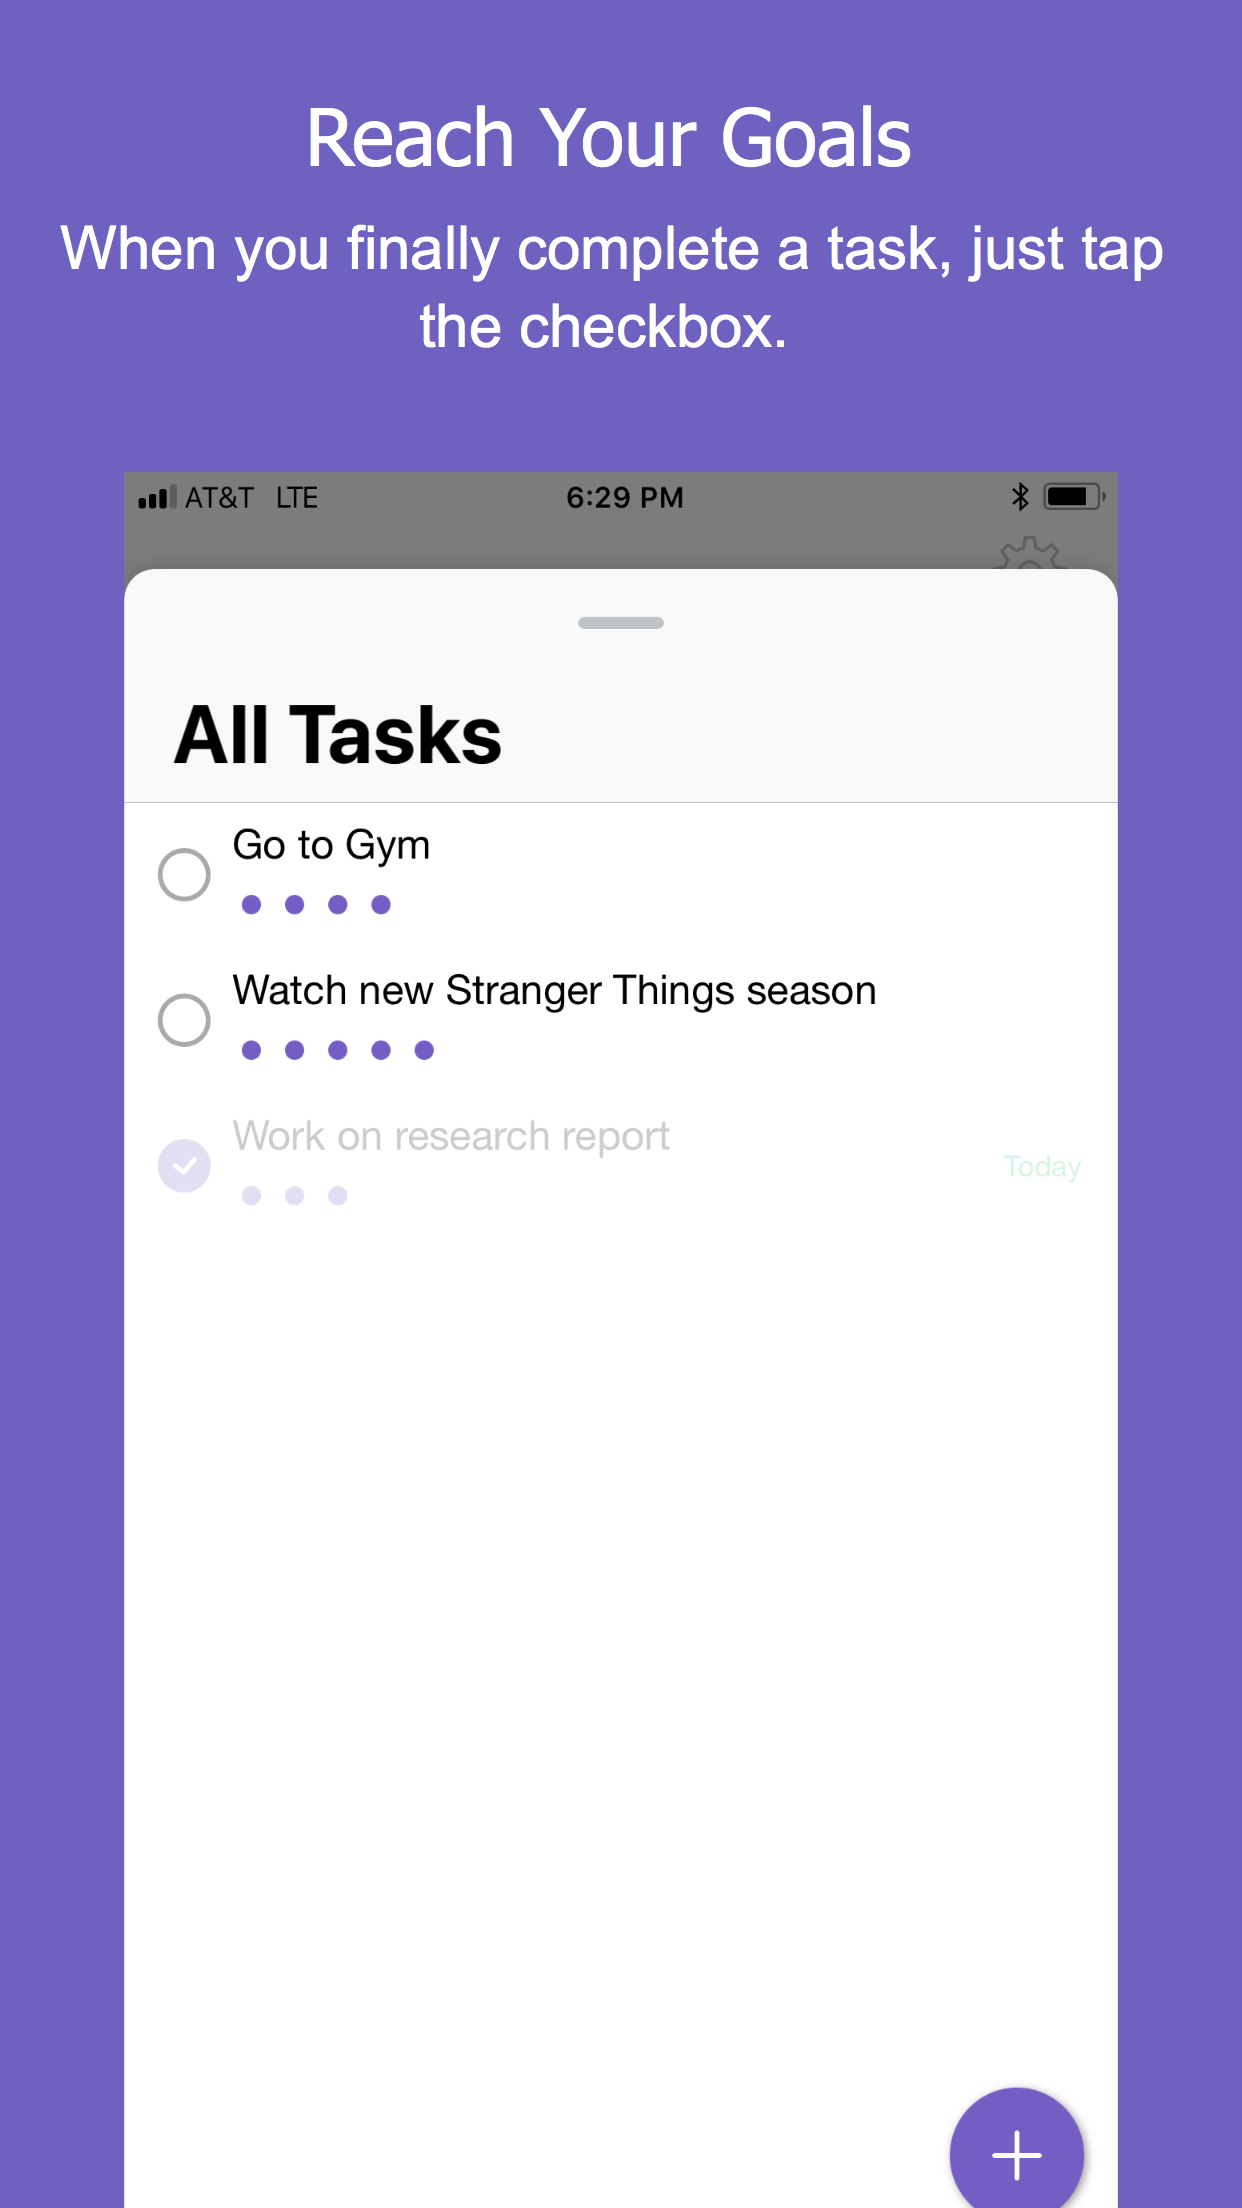
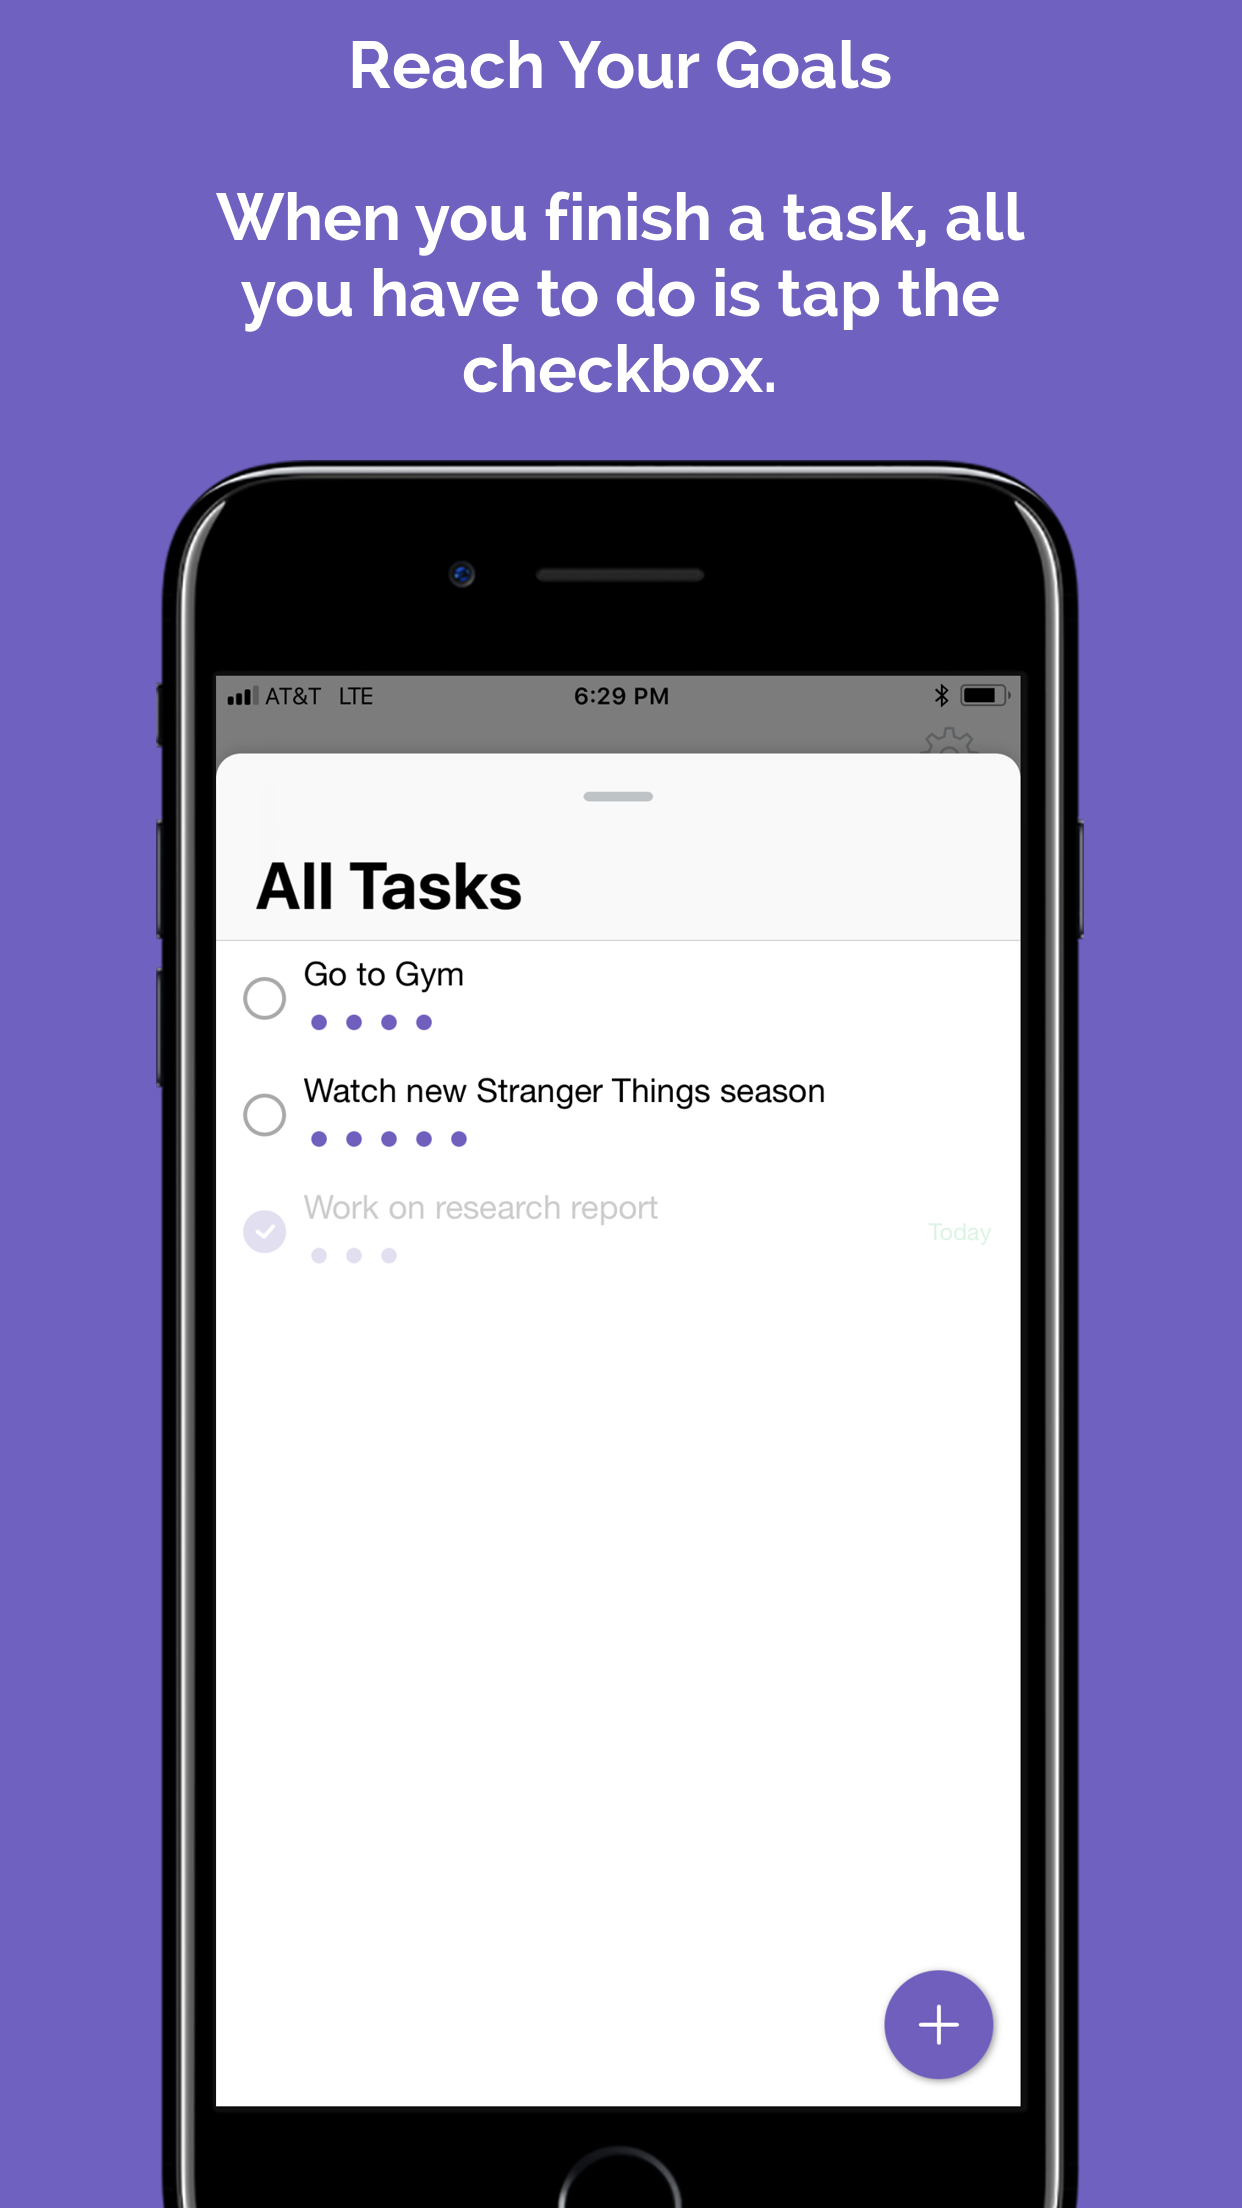
new screenshots

Changed region(s): [[0.0306, 0.0, 0.9485, 1.0]]

diff --git a/index.html b/index.html
@@ -205,6 +205,7 @@ Page    : index
                 <img src="images/screen2.jpg" alt="image">
                 <img src="images/screen3.jpg" alt="image">
                 <img src="images/screen4.jpg" alt="image">
+                <img src="images/screen5.jpg" alt="image">
             </div>
         </div>
     </div>
